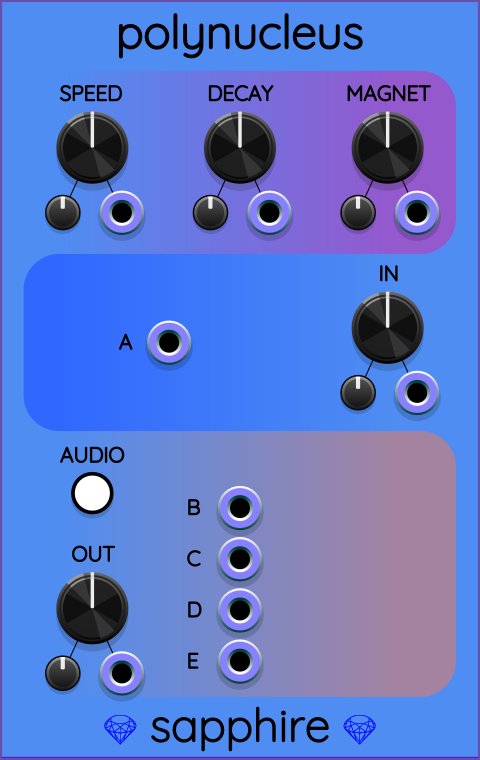
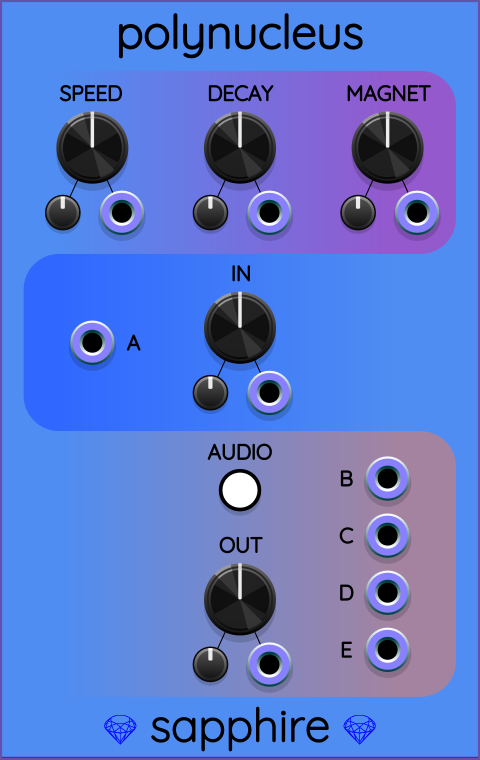
Polynucleus: major overhaul of panel layout.
Moving things around to use the extra horizontal
space freed up by having a single column of ports
instead of three.

Now there is room for an extra two control groups!

I still need to fix the super-skinny arrow for
selecting which particle sends output to Tricorder.

diff --git a/util/make_sapphire_svg.py b/util/make_sapphire_svg.py
@@ -378,18 +378,21 @@ def GeneratePolynucleusPanel() -> int:
     panel.append(pl)
     controls = ControlLayer()
     xmid = panel.mmWidth / 2
+    dxKnob = 25.0
+    xKnobLeft  = xmid - dxKnob
+    xKnobRight = xmid + dxKnob
     dxPort = 0.0                # not really needed, kept in C++ code generator for symmetry with Nucleus.
     yIn = 58.0                  # vertical position of center of input X, Y, Z ports.
-    yOutTop = 86.0              # vertical position of the top row of output ports.
-    yOutBottom = 112.0          # vertical position of the bottom row of output ports.
+    yOutTop = 81.0              # vertical position of the top row of output ports.
+    yOutBottom = 110.0          # vertical position of the bottom row of output ports.
     nOutputParticles = 4        # how many particles are used for output.
     dyOut = (yOutBottom - yOutTop) / (nOutputParticles - 1)     # vertical space between output rows.
-    xOutLeft = xmid
-    dxRightMargin = 4.0
+    xOutLeft = xKnobRight - 5.0
     dxLeft = 5.0
-    dxTotal = panel.mmWidth - xOutLeft - dxRightMargin + dxLeft
+    dxTotal = 20.0
+    dxLabel = 7.0
     yKnobRow1 = 25.0
-    yOutLevel = yOutTop + (yOutBottom-yOutTop)/2 + 4.0
+    yOutLevel = yOutTop + (yOutBottom-yOutTop)/2 + 6.0
 
     # Write a C++ header file that contains bounding rectangles for the 4 output rows.
     # This script remains the Single Source Of Truth for how the panel design is laid out.
@@ -403,10 +406,10 @@ def GeneratePolynucleusPanel() -> int:
         headerFile.write('    {\n')
         headerFile.write('        namespace Panel\n')
         headerFile.write('        {\n')
-        headerFile.write('            const float DxOut   = {:9.3f}f;    // (not really needed - compatibility with Nucleus).\n'.format(dxPort))
-        headerFile.write('            const float DyOut   = {:9.3f}f;    // vertical distance between output port rows.\n'.format(dyOut))
-        headerFile.write('            const float X1Out   = {:9.3f}f;    // x-coord of upper left output port\'s center.\n'.format(xOutLeft))
-        headerFile.write('            const float Y1Out   = {:9.3f}f;    // y-coord of upper left output port\'s center.\n'.format(yOutTop))
+        headerFile.write('            const float DxOut   = {:9.3f}f;    // FIXFIXFIX - is this still needed?\n'.format(dxPort))
+        headerFile.write('            const float DyOut   = {:9.3f}f;    // vertical distance between output ports.\n'.format(dyOut))
+        headerFile.write('            const float X1Out   = {:9.3f}f;    // x-coord of output port\'s center.\n'.format(xOutLeft))
+        headerFile.write('            const float Y1Out   = {:9.3f}f;    // y-coord of output port\'s center.\n'.format(yOutTop))
         headerFile.write('            const float DxTotal = {:9.3f}f;    // total horizontal space to allocate to each bounding box.\n'.format(dxTotal))
         headerFile.write('            const float DxLeft  = {:9.3f}f;    // extra space reserved on the left for BCDE.\n'.format(dxLeft))
         headerFile.write('        }\n')
@@ -423,38 +426,29 @@ def GeneratePolynucleusPanel() -> int:
         pl.append(RectangularBubble(xBubbleLeft, 43.0, xBubbleRight, 30.0, bubbleRadius, GradientStyle('gradient_input',    1.0), 'input_bubble'))
         pl.append(RectangularBubble(xBubbleLeft, 73.0, xBubbleRight, 45.0, bubbleRadius, GradientStyle('gradient_output',   0.8), 'output_bubble'))
         pl.append(controls)
-        xInputCenter = xmid - 12.0
-        xInPos = xInputCenter
-        xOutPos = xmid
 
-        controls.append(Component('a_input', xInPos, yIn))
+        # Create label + input port for particle A.
+        controls.append(Component('a_input', xKnobLeft, yIn))
+        pl.append(CenteredControlTextPath(font, 'A', xKnobLeft + dxLabel, yIn))
+
+        # Create labels + output ports for particles BCDE.
         ypos = yOutTop
-        for i in range(nOutputParticles):
-            # Output rows BCDE
-            controls.append(Component('bcde'[i] + '_output', xOutPos, ypos))
-            ypos += dyOut
-
-        pl.append(ControlTextPath(font, 'A', xInputCenter - 8.5, yIn - 2.5))
-        xpos = xmid - 9.0
-        ypos = yOutTop - 2.5
         for label in 'BCDE':
-            pl.append(ControlTextPath(font, label, xpos, ypos))
+            controls.append(Component(label.lower() + '_output', xKnobRight, ypos))
+            pl.append(CenteredControlTextPath(font, label, xKnobRight - dxLabel, ypos))
             ypos += dyOut
 
-        dxKnob = 25.0
-        xKnobLeft  = xmid - dxKnob
-        xKnobRight = xmid + dxKnob
-        AddControlGroup(pl, controls, font, 'speed',    'SPEED',  xKnobLeft,    yKnobRow1, 5.5)
-        AddControlGroup(pl, controls, font, 'decay',    'DECAY',  xmid,         yKnobRow1, 5.5)
-        AddControlGroup(pl, controls, font, 'magnet',   'MAGNET', xKnobRight,   yKnobRow1, 7.0)
-        AddControlGroup(pl, controls, font, 'in_drive', 'IN',     xKnobRight,   yIn - 2.5, 1.5)
-        AddControlGroup(pl, controls, font, 'out_level','OUT',    xKnobLeft,    yOutLevel, 3.5)
+        AddControlGroup(pl, controls, font, 'speed',    'SPEED',  xKnobLeft,  yKnobRow1, 5.5)
+        AddControlGroup(pl, controls, font, 'decay',    'DECAY',  xmid,       yKnobRow1, 5.5)
+        AddControlGroup(pl, controls, font, 'magnet',   'MAGNET', xKnobRight, yKnobRow1, 7.0)
+        AddControlGroup(pl, controls, font, 'in_drive', 'IN',     xmid,       yIn - 2.5, 1.5)
+        AddControlGroup(pl, controls, font, 'out_level','OUT',    xmid,       yOutLevel, 3.5)
 
         # Add toggle button with alternating text labels AUDIO and CONTROL.
         # We do this by creating two extra SVG files that contain one word each.
         # Then we hide/show the layers as needed to show only AUDIO or CONTROL (not both).
-        xButton = xKnobLeft
-        yButton = yOutLevel - 19.5
+        xButton = xmid
+        yButton = yOutLevel - 18.5
         controls.append(Component('audio_mode_button', xButton, yButton))
         xText = xButton
         yText = yButton - 6.5

diff --git a/src/polynucleus_panel.hpp b/src/polynucleus_panel.hpp
@@ -6,11 +6,11 @@ namespace Sapphire
     {
         namespace Panel
         {
-            const float DxOut   =     0.000f;    // (not really needed - compatibility with Nucleus).
-            const float DyOut   =     8.667f;    // vertical distance between output port rows.
-            const float X1Out   =    40.640f;    // x-coord of upper left output port's center.
-            const float Y1Out   =    86.000f;    // y-coord of upper left output port's center.
-            const float DxTotal =    41.640f;    // total horizontal space to allocate to each bounding box.
+            const float DxOut   =     0.000f;    // FIXFIXFIX - is this still needed?
+            const float DyOut   =     9.667f;    // vertical distance between output ports.
+            const float X1Out   =    60.640f;    // x-coord of output port's center.
+            const float Y1Out   =    81.000f;    // y-coord of output port's center.
+            const float DxTotal =    20.000f;    // total horizontal space to allocate to each bounding box.
             const float DxLeft  =     5.000f;    // extra space reserved on the left for BCDE.
         }
     }
